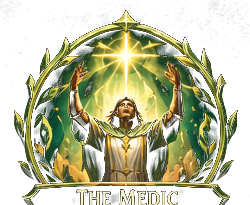
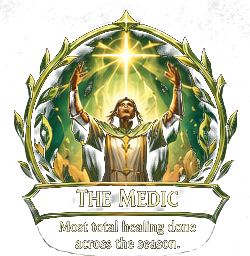
Show the complete original badge art, description text included
Extended the earlier "full ribbon" crop to the true full emblem: circle,
name ribbon, and the plain description text, all baked into one image --
each row is its own clean 256px band in the source grid with no bleed
from neighbors, so this needed no per-row boundary tuning the way the
ribbon-only version did.

Since the description is now part of the picture, the separate HTML
description under an illustrated badge would just repeat it -- dropped
for any achievement with `emblem` set, alt text now carries both title
and description. The 7 achievements without art yet still get the real
HTML heading + description via the existing emoji-fallback path, so nothing
regresses for those until they get their own badges.

diff --git a/app.js b/app.js
@@ -466,21 +466,23 @@ function renderAchievements(achievements, seasonActive) {
     const card = document.createElement("div");
     card.className = "trophy-card";
 
-    // The full badge -- circle art plus its own name ribbon, cropped from
-    // the source art wide enough to keep the ribbon's full width (it
-    // extends past the circle's edges) -- see ACHIEVEMENTS in relay.js
-    // and the /emblems directory. This replaced a smaller icon-plus-
-    // separate-heading layout: the ribbon already carries the achievement
-    // name, so a second plain-text heading next to it just repeated the
-    // same words in a plainer font. alt carries the title now that
-    // there's no separate heading element for a screen reader to read
-    // instead. Falls back to a plain trophy emoji only if an older cached
-    // response predates the `emblem` field.
+    // The full badge -- circle art, name ribbon, AND the description text,
+    // all baked into one image cropped from the source art (see
+    // ACHIEVEMENTS in relay.js and the /emblems directory) -- so this
+    // replaces a separate HTML heading and description entirely, not just
+    // the heading. alt carries both, since a screen reader has no other
+    // way to get either piece now. Falls back to a plain trophy emoji +
+    // real HTML heading/description only if an older cached response
+    // predates the `emblem` field, or for an achievement that doesn't
+    // have art yet (see the 7 added after the original 22).
+    const body = document.createElement("div");
+    body.className = "trophy-body";
+
     if (achievement.emblem) {
       const img = document.createElement("img");
       img.className = "trophy-emblem";
       img.src = achievement.emblem;
-      img.alt = achievement.title;
+      img.alt = `${achievement.title} — ${achievement.description}`;
       card.appendChild(img);
     } else {
       const icon = document.createElement("span");
@@ -492,15 +494,11 @@ function renderAchievements(achievements, seasonActive) {
       title.className = "trophy-title";
       title.textContent = achievement.title;
       card.appendChild(title);
+      const description = document.createElement("div");
+      description.className = "trophy-description";
+      description.textContent = achievement.description;
+      body.appendChild(description);
     }
-
-    const body = document.createElement("div");
-    body.className = "trophy-body";
-
-    const description = document.createElement("div");
-    description.className = "trophy-description";
-    description.textContent = achievement.description;
-    body.appendChild(description);
 
     if (achievement.winner) {
       const winnerRow = document.createElement("div");

diff --git a/index.html b/index.html
@@ -8,7 +8,7 @@
      older copy (GitHub Pages' cache headers otherwise mean a pull-to-
      refresh, which only re-fetches data, can leave a stale script running
      for a while) -- bump N here whenever either file changes. -->
-<link rel="stylesheet" href="style.css?v=18">
+<link rel="stylesheet" href="style.css?v=19">
 
 <!-- Home-screen icon (iOS "Add to Home Screen" + Android/Chrome install).
      Generated from icon-source.png via scripts/generate_icons.py -- rerun
@@ -239,6 +239,6 @@
   </div>
 </div>
 
-<script src="app.js?v=21"></script>
+<script src="app.js?v=22"></script>
 </body>
 </html>

diff --git a/style.css b/style.css
@@ -749,6 +749,11 @@ header h1 {
   justify-content: center;
   gap: 10px;
   flex-wrap: wrap;
+  /* The illustrated-badge path has no .trophy-description above this to
+     supply spacing (title+description are baked into the image itself
+     now) -- margin here instead of relying on a sibling that isn't always
+     there. */
+  margin-top: 10px;
 }
 
 .trophy-winner-name {
@@ -765,6 +770,7 @@ header h1 {
 .trophy-empty {
   color: var(--muted);
   font-size: 0.9rem;
+  margin-top: 10px; /* same reasoning as .trophy-winner's margin-top above */
 }
 .note-line:first-child {
   margin-top: 0;
